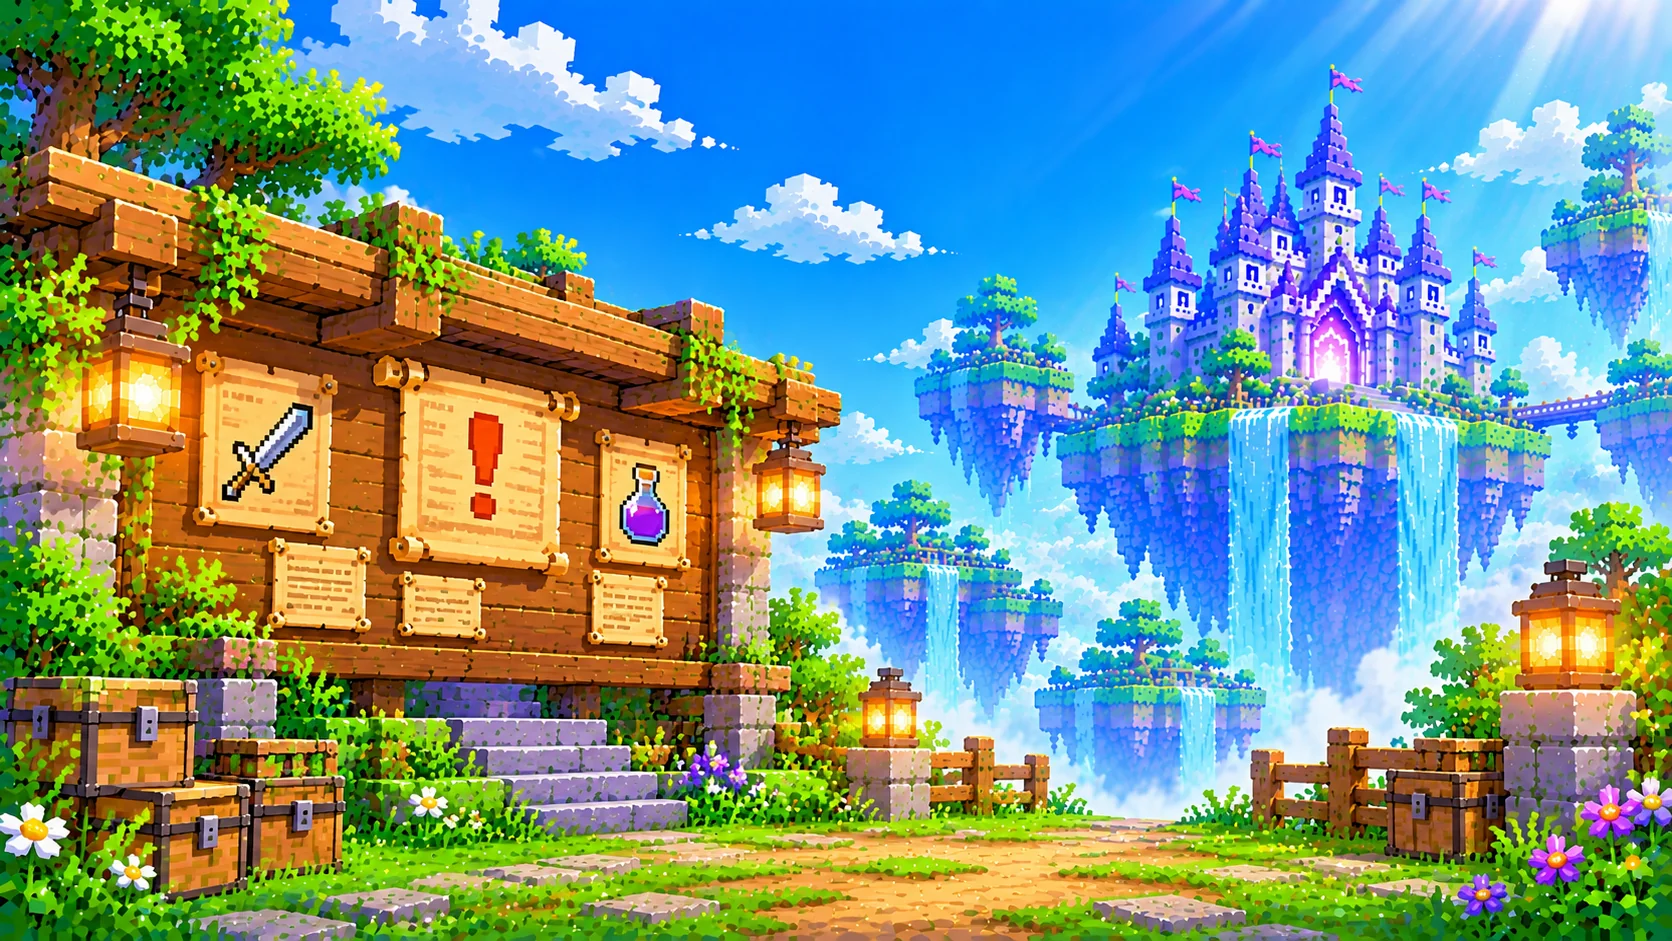
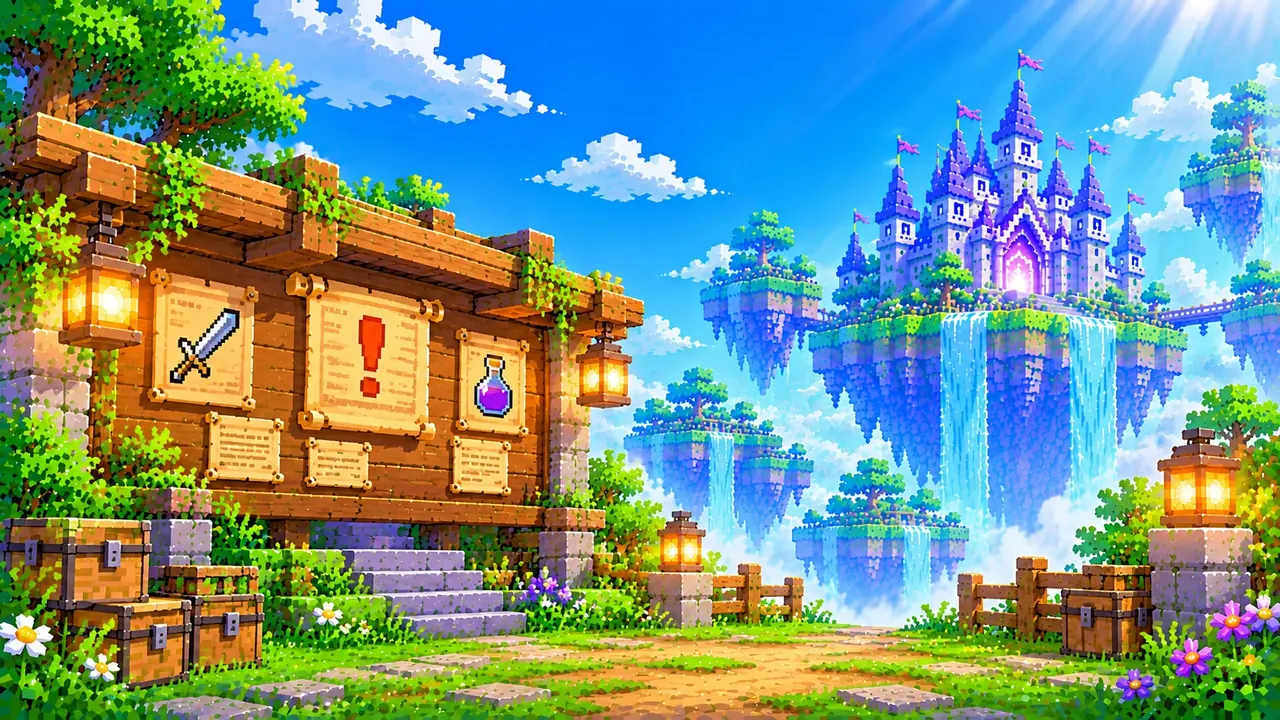
perf(assets): kecilkan 10 latar webp 1672x941 -> 1280x720 (q78), regen manifest, SW v291
Claude-Session: https://claude.ai/code/session_01DAExkFxTJC1e4Knt4RBtgd

diff --git a/sw.js b/sw.js
@@ -9,7 +9,7 @@
    dimigrasikan: isi media dicocokkan dengan hash, yang cocok dipakai ulang tanpa unduh.
    JALANKAN ulang tools/gen-preload-manifest.py setiap mengganti/menambah media (tes tests/sw-incremental-media.test.js menjaganya).
    Request Range (audio) dilayani dari cache bila file sudah tersimpan penuh; bila belum, lewat jaringan biasa. Non-GET tidak disentuh. */
-const VERSION = 'ut-pwa-v290';
+const VERSION = 'ut-pwa-v291';
 const MEDIA_CACHE = 'ut-media'; /* permanen: tidak dibuang saat VERSION naik */
 const MEDIA_INDEX = '__media-index__'; /* kunci indeks hash di MEDIA_CACHE */
 const MEDIA_HASH_URL = 'assets/media-hash.json';
